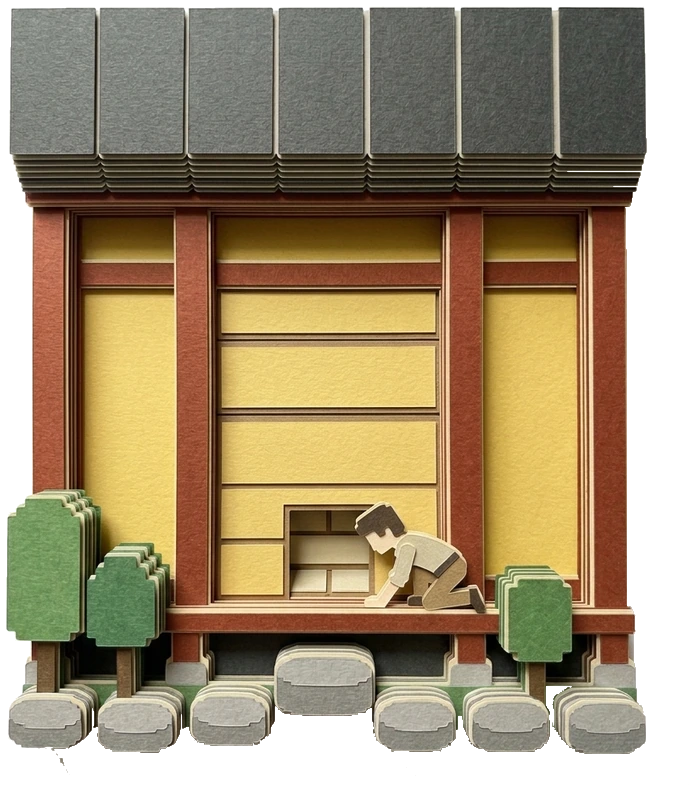
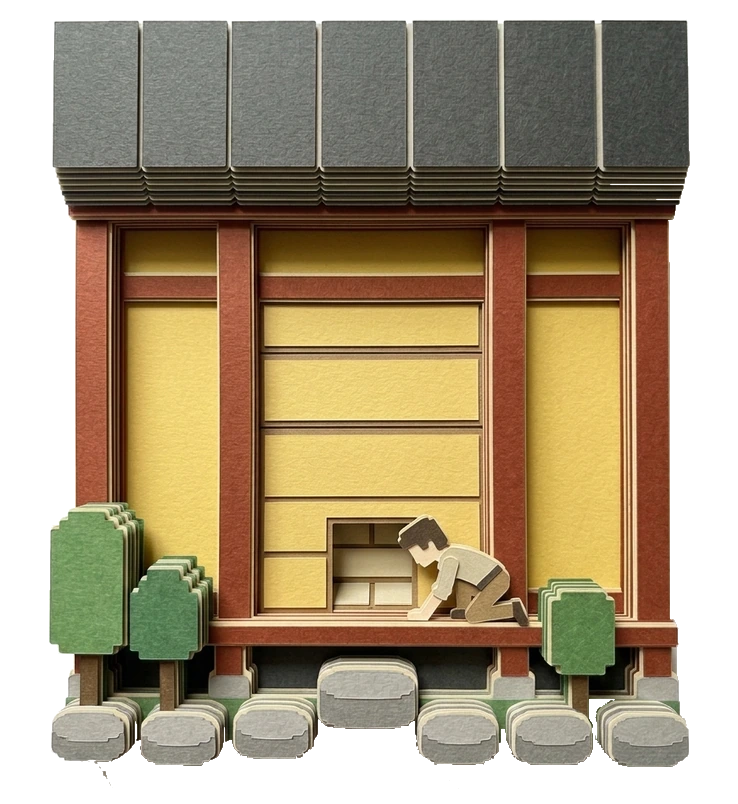
門が版の真ん中に来るようにする
二枚を同じ枠で切ると、実行後のほうが人の姿で右へ張り出すぶん、変容前の中身が
枠の中で左へ寄っていた。変容前が真ん中に来るよう、二枚へ同じだけ透明を足す。
実測で、ずれは20px→6px（カード幅の1%）になった。

diff --git a/src/webgl/plateArtVersion.ts b/src/webgl/plateArtVersion.ts
@@ -1,5 +1,5 @@
 // tools/shrink-plate.py が書き出す。直接いじらない。
 // 絵の中身から作った版番号。URLに付けて、古い絵が居座るのを防ぐ。
 export const PLATE_ART_VERSION: Record<string, string> = {
-  "01": "f5e46e7c68"
+  "01": "7679ee00a5"
 } as const;

diff --git a/tools/shrink-plate.py b/tools/shrink-plate.py
@@ -79,8 +79,24 @@ for name in (f"{ID}-before", f"{ID}-after"):
 box = (min(b[0] for b in boxes), min(b[1] for b in boxes),
        max(b[2] for b in boxes), max(b[3] for b in boxes))
 
+# 二枚の枠は同じだが、そのぶん《変容前》の中身が枠の中で片寄る
+# （《実行後》のほうが人の姿で右へ張り出すため）。版に出るのはまず変容前なので、
+# **変容前の中身が真ん中に来るように**、二枚へ同じだけ透明を足す。
+ref = np.asarray(cut[f"{ID}-before"].crop(box).split()[-1])
+rys, rxs = np.nonzero(ref > 8)
+bw, bh = box[2] - box[0], box[3] - box[1]
+cx, cy = (rxs.min() + rxs.max()) / 2, (rys.min() + rys.max()) / 2
+padL = int(round(max(0, (bw / 2 - cx) * 2)))
+padR = int(round(max(0, (cx - bw / 2) * 2)))
+padT = int(round(max(0, (bh / 2 - cy) * 2)))
+padB = int(round(max(0, (cy - bh / 2) * 2)))
+print("変容前の中心", round(cx), round(cy), "／枠", bw, bh, "／足す L,R,T,B =", padL, padR, padT, padB)
+
 for name, img in cut.items():
     out = img.crop(box)
+    pad = Image.new("RGBA", (out.width + padL + padR, out.height + padT + padB), (255, 255, 255, 0))
+    pad.paste(out, (padL, padT))
+    out = pad
     edge = 6
     framed = Image.new("RGBA", (out.width + edge * 2, out.height + edge * 2), (255, 255, 255, 0))
     framed.paste(out, (edge, edge))
